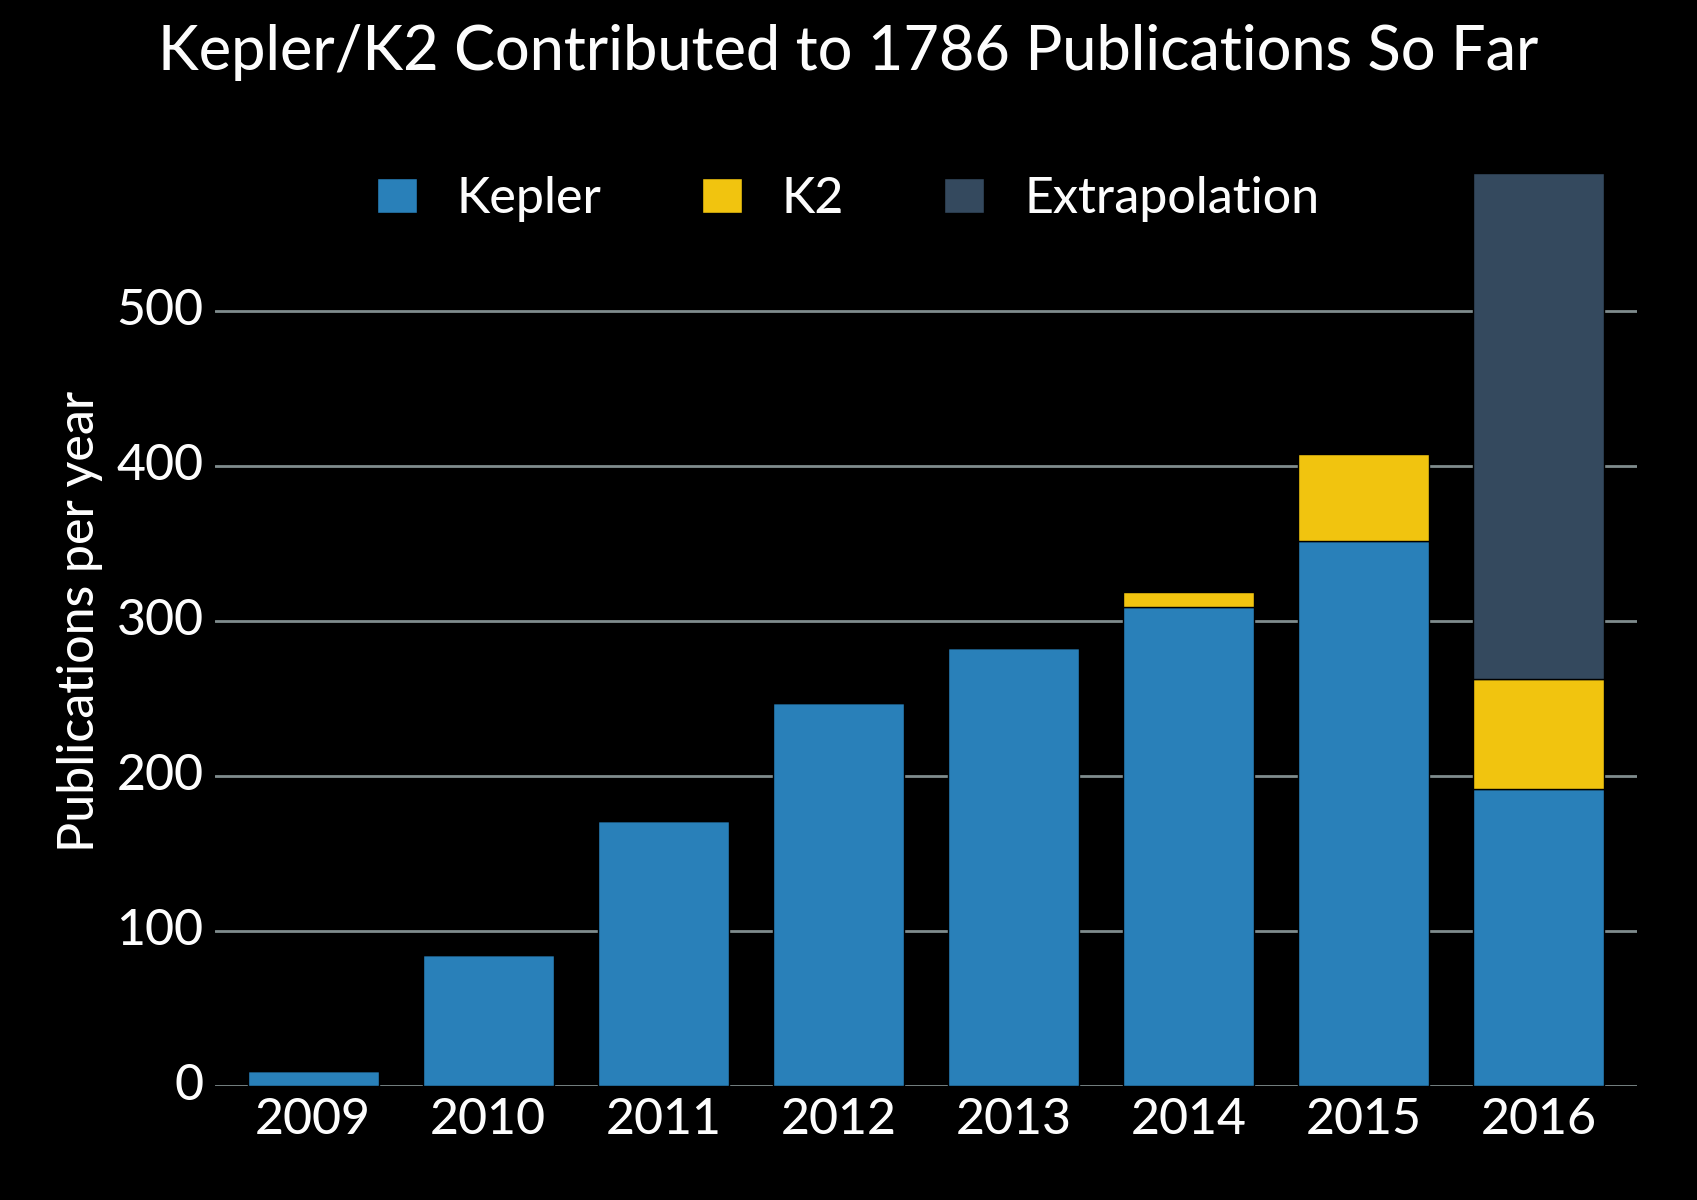
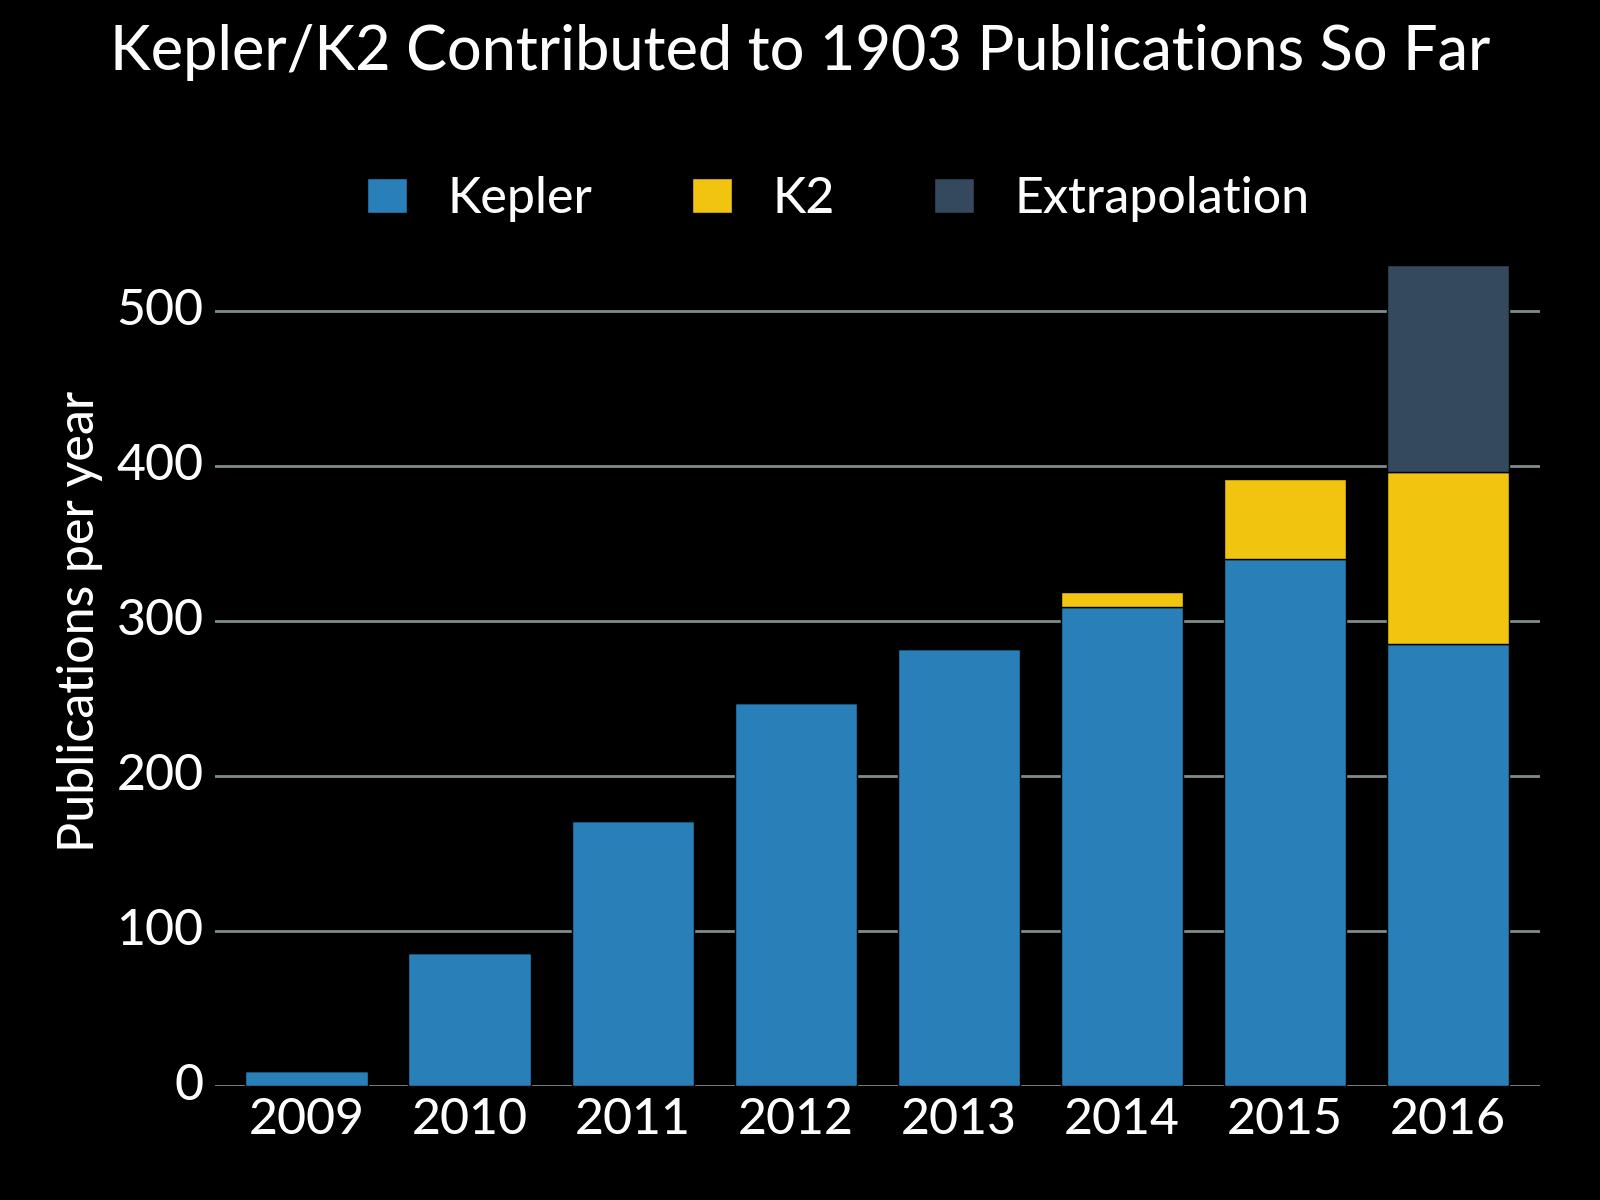
Update publication stats graph

diff --git a/publication-stats/publications-per-year.py b/publication-stats/publications-per-year.py
@@ -47,7 +47,7 @@ for mission in MISSIONS:
         counts[mission][int(row[0])] = row[1]
 
 # Now make the actual plot
-fig = plt.figure()
+fig = plt.figure(figsize=(8, 6))
 ax = fig.add_subplot(111)
 plt.bar(np.array(list(counts['kepler'].keys())) - 0.5*barwidth,
         counts['kepler'].values(),
